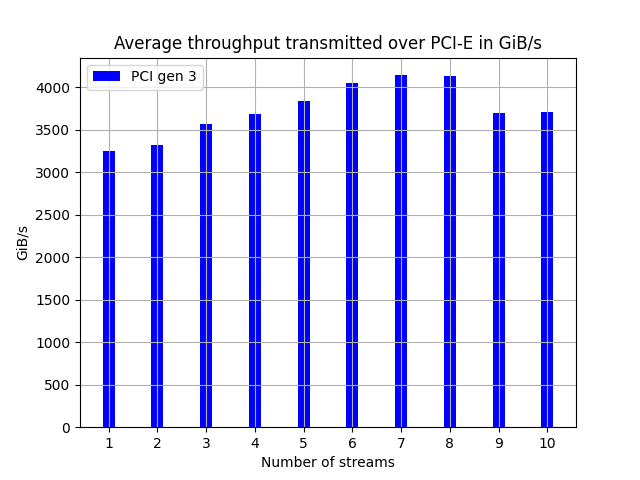
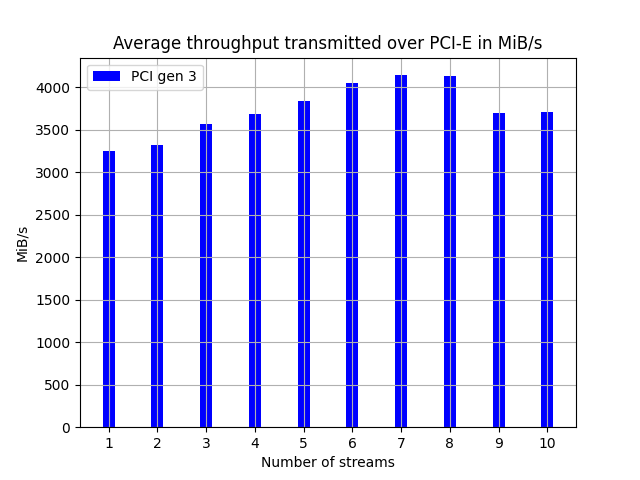
Fix labelling

Changed region(s): [[0.1875, 0.0625, 0.8438, 0.125], [0.0312, 0.4688, 0.0625, 0.5625]]

diff --git a/handin_2/build_graphs.py b/handin_2/build_graphs.py
@@ -93,16 +93,16 @@ def build_stress_test_bar_chart(test_type:str, report_name = None, dir = DATA_FO
         plt.bar(x, encoders[pci_gen], color=color, width=bar_width, label=label)
 
         plt.figure(4)
-        plt.title(f"Average throughput transmitted over PCI-E in GiB/s")
+        plt.title(f"Average throughput transmitted over PCI-E in MiB/s")
         plt.bar(x, txs[pci_gen], color=color, width=bar_width, label=label)
 
         plt.figure(5)
-        plt.title(f"Average throughput recieved over PCI-E in GiB/s")
+        plt.title(f"Average throughput recieved over PCI-E in MiB/s")
         plt.bar(x, rxs[pci_gen], color=color, width=bar_width, label=label)
 
         if test_type == "stress_test" or test_type == "gpu" or test_type == "two_process":
             plt.figure(6)
-            plt.title(f"Average throughput recieved and transmitted over PCI-E in GiB/s")
+            plt.title(f"Average throughput recieved and transmitted over PCI-E in MiB/s")
             plt.bar(x, [a + b for a, b in zip(rxs[pci_gen], txs[pci_gen])], color=color, width=bar_width, label=label)
 
     names = ["time", "sm", "dec", "enc", "tx", "rx"]
@@ -122,7 +122,7 @@ def build_stress_test_bar_chart(test_type:str, report_name = None, dir = DATA_FO
         elif n == "time":
             plt.ylabel("Seconds")
         else:
-            plt.ylabel("GiB/s")
+            plt.ylabel("MiB/s")
         plt.savefig(os.path.join(OUT_PATH, f"{test_type}_graph_{n}.png"))
         plt.clf()
         plt.cla()
